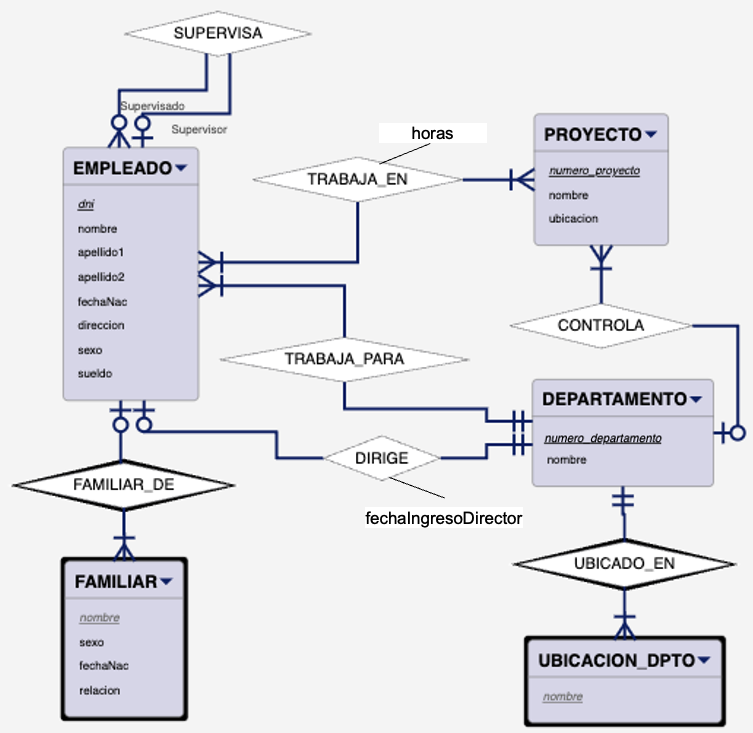
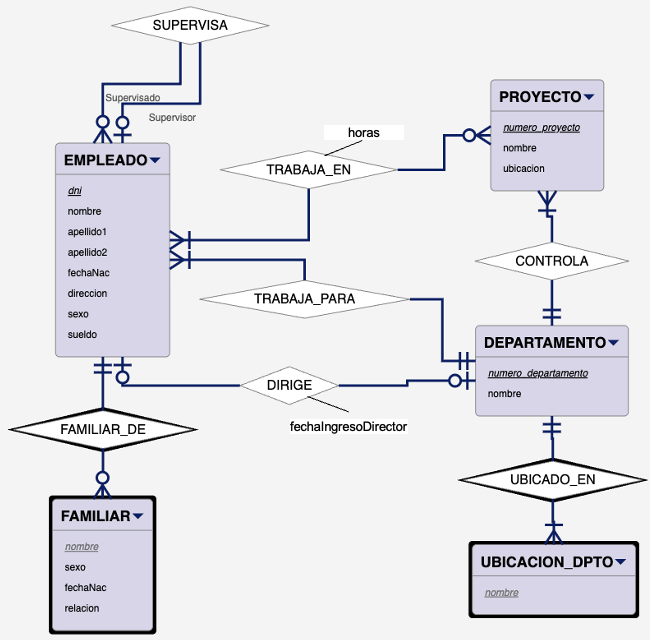
Pequeños cambios en T05

Changed region(s): [[0.0, 0.0, 1.0, 1.0]]

diff --git a/BD Empresa versión final - BigER.md b/BD Empresa versión final - BigER.md
@@ -46,21 +46,21 @@ EMPLEADO[1..N] -> DEPARTAMENTO[1..1]
 #### Relación DIRIGE
 ```code
 relationship DIRIGE {
-EMPLEADO[0..1] -> DEPARTAMENTO[1..1]
+EMPLEADO[0..1] -> DEPARTAMENTO[0..1]
 fechaIngresoDirector
 }
 ```
 #### Relación TRABAJA_EN
 ```code
 relationship TRABAJA_EN {
-EMPLEADO[1..N] -> PROYECTO[1..N]
+EMPLEADO[1..N] -> PROYECTO[0..N]
 horas
 }
 ```
 #### Relación CONTROLA
 ```code
 relationship CONTROLA {
-PROYECTO[1..N] -> DEPARTAMENTO[0..1]
+PROYECTO[1..N] -> DEPARTAMENTO[1..1]
 }
 ```
 #### Relación SUPERVISA
@@ -85,7 +85,7 @@ relacion
 #### Relación débil FAMILIAR_DE 
 ```code
 weak relationship FAMILIAR_DE {
-FAMILIAR[1..N] -> EMPLEADO[0..1]
+FAMILIAR[0..N] -> EMPLEADO[1..1]
 }
 ```
 #### Entidad débil UBICACION_DPTO

diff --git a/Resumen Criterios de Evaluación - Examen Entidad Relación.md b/Resumen Criterios de Evaluación - Examen Entidad Relación.md
@@ -25,7 +25,7 @@
 
 #### a) Entidades fuertes (no débiles):
 
-- **M1**: 텅 Dejar entidades sin ningún atributo (más allá de la clave).
+- **M1**: 텅 Dejar entidades sin ningún atributo que la describa(más allá de la clave o incluso sin ella).
     
 - **M2**: ➕ Crear entidades que no son necesarias según los requisitos.
     
